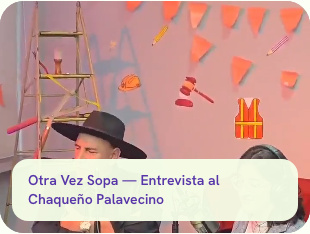
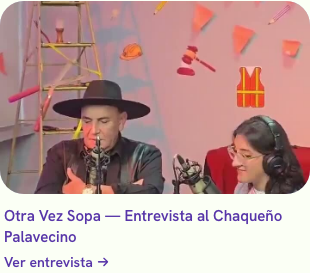
Sobre mí: el título del destacado pasa debajo del clip y el encuadre baja a las caras
El cartel superpuesto tapaba al Chaqueño y a Rosario (tercio inferior del clip).
Ahora el video queda limpio en 16/10 con object-position center 80% (prop
objectPosition en CenterLoop) y el pie lleva título + "Ver entrevista →".

Generated with [Devin](https://devin.ai)

diff --git a/components/sections/intro.tsx b/components/sections/intro.tsx
@@ -5,6 +5,9 @@ import { PopContainer } from "@/components/pop/heading";
 import { categoryIcon } from "@/components/pop/icons";
 import type { Category, Profile, Project } from "@/lib/types";
 
+/** Encuadre del destacado: las caras están en el tercio inferior del clip. */
+const SPOTLIGHT_FOCUS = "center 80%";
+
 /** "Hola, soy Rosario": presentación + áreas de trabajo (anclas a cada sección). */
 export function Intro({
   profile,
@@ -24,28 +27,40 @@ export function Intro({
           {spotlight?.thumbnailUrl ? (
             <a
               href={`#${categories.find((c) => c.id === spotlight.categoryId)?.slug ?? "trabajos"}`}
-              className="group relative block overflow-hidden rounded-[24px] bg-candy md:col-span-4"
+              className="group block md:col-span-4"
             >
-              <div className="relative aspect-[4/3] w-full transition-transform duration-500 group-hover:scale-[1.03]">
-                {spotlight.clipUrl ? (
-                  // Clip del destacado en bucle mudo (poster = miniatura; pausa fuera del centro).
-                  <CenterLoop src={spotlight.clipUrl} poster={spotlight.thumbnailUrl} start={spotlight.clipStart} />
-                ) : (
-                  // Miniatura externa (YouTube): fuera de los remotePatterns de next/image.
-                  // eslint-disable-next-line @next/next/no-img-element
-                  <img
-                    src={spotlight.thumbnailUrl}
-                    alt=""
-                    loading="lazy"
-                    decoding="async"
-                    width={480}
-                    height={360}
-                    className="absolute inset-0 size-full object-cover"
-                  />
-                )}
+              {/* El clip queda limpio: el título va debajo, como pie, para no tapar las caras. */}
+              <div className="relative overflow-hidden rounded-[24px] bg-candy">
+                <div className="relative aspect-[16/10] w-full transition-transform duration-500 group-hover:scale-[1.03]">
+                  {spotlight.clipUrl ? (
+                    // Clip del destacado en bucle mudo (poster = miniatura; pausa fuera del centro).
+                    <CenterLoop
+                      src={spotlight.clipUrl}
+                      poster={spotlight.thumbnailUrl}
+                      start={spotlight.clipStart}
+                      objectPosition={SPOTLIGHT_FOCUS}
+                    />
+                  ) : (
+                    // Miniatura externa (YouTube): fuera de los remotePatterns de next/image.
+                    // eslint-disable-next-line @next/next/no-img-element
+                    <img
+                      src={spotlight.thumbnailUrl}
+                      alt=""
+                      loading="lazy"
+                      decoding="async"
+                      width={480}
+                      height={300}
+                      className="absolute inset-0 size-full object-cover"
+                      style={{ objectPosition: SPOTLIGHT_FOCUS }}
+                    />
+                  )}
+                </div>
               </div>
-              <span className="absolute inset-x-3 bottom-3 rounded-2xl bg-cream/95 px-4 py-3 text-[14px] leading-snug font-semibold text-cocoa">
+              <span className="mt-3 block px-1 text-[15px] leading-snug font-semibold text-cocoa md:text-[16px]">
                 {spotlight.title}
+              </span>
+              <span className="mt-1 block px-1 text-[14px] font-semibold text-sun-deep transition-colors group-hover:text-cocoa">
+                Ver entrevista →
               </span>
             </a>
           ) : null}

diff --git a/components/media/CenterLoop.tsx b/components/media/CenterLoop.tsx
@@ -12,6 +12,8 @@ export interface CenterLoopProps {
   poster?: string | null;
   /** Segundo desde el que arranca y reinicia el bucle. Con 0 se usa el `loop` nativo. */
   start?: number;
+  /** `object-position` del poster y del video (ej. "center 80%") para encuadrar el recorte. */
+  objectPosition?: string;
 }
 
 /**
@@ -19,7 +21,7 @@ export interface CenterLoopProps {
  * La miniatura queda visible debajo hasta que el video tiene cuadros para
  * mostrar (readyState >= 3); recién ahí el video aparece con un fundido corto.
  */
-export function CenterLoop({ src, poster, start = 0 }: CenterLoopProps) {
+export function CenterLoop({ src, poster, start = 0, objectPosition }: CenterLoopProps) {
   const rootRef = useRef<HTMLDivElement>(null);
   const videoRef = useRef<HTMLVideoElement>(null);
   const active = useLoopSlot(rootRef);
@@ -97,12 +99,20 @@ export function CenterLoop({ src, poster, start = 0 }: CenterLoopProps) {
       {poster ? (
         // Miniatura local del fragmento: el video sólo se monta cerca del centro.
         // eslint-disable-next-line @next/next/no-img-element
-        <img src={poster} alt="" loading="lazy" fetchPriority="low" decoding="async" className="absolute inset-0 size-full object-cover" />
+        <img
+          src={poster}
+          alt=""
+          loading="lazy"
+          fetchPriority="low"
+          decoding="async"
+          className="absolute inset-0 size-full object-cover"
+          style={{ objectPosition }}
+        />
       ) : null}
       <video
         ref={videoRef}
         className="absolute inset-0 size-full object-cover"
-        style={{ opacity: 0 }}
+        style={{ opacity: 0, objectPosition }}
         muted
         playsInline
         preload="none"
